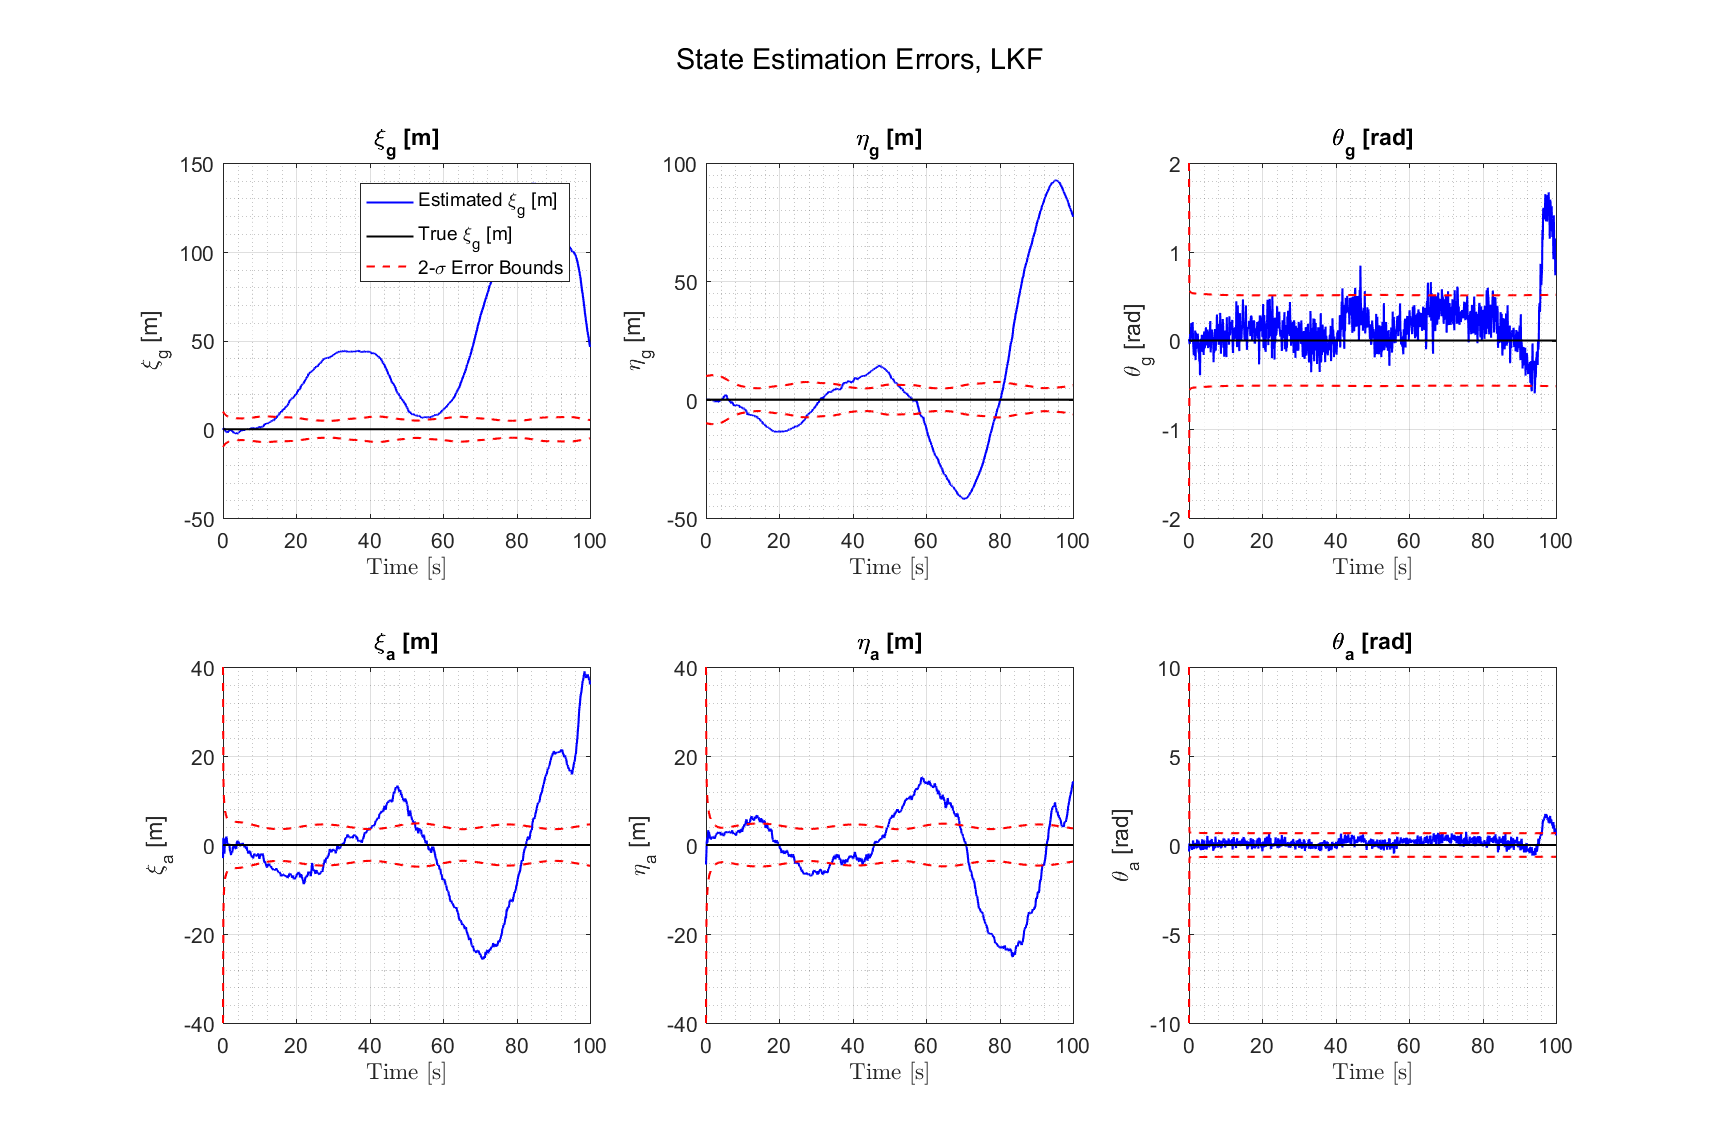
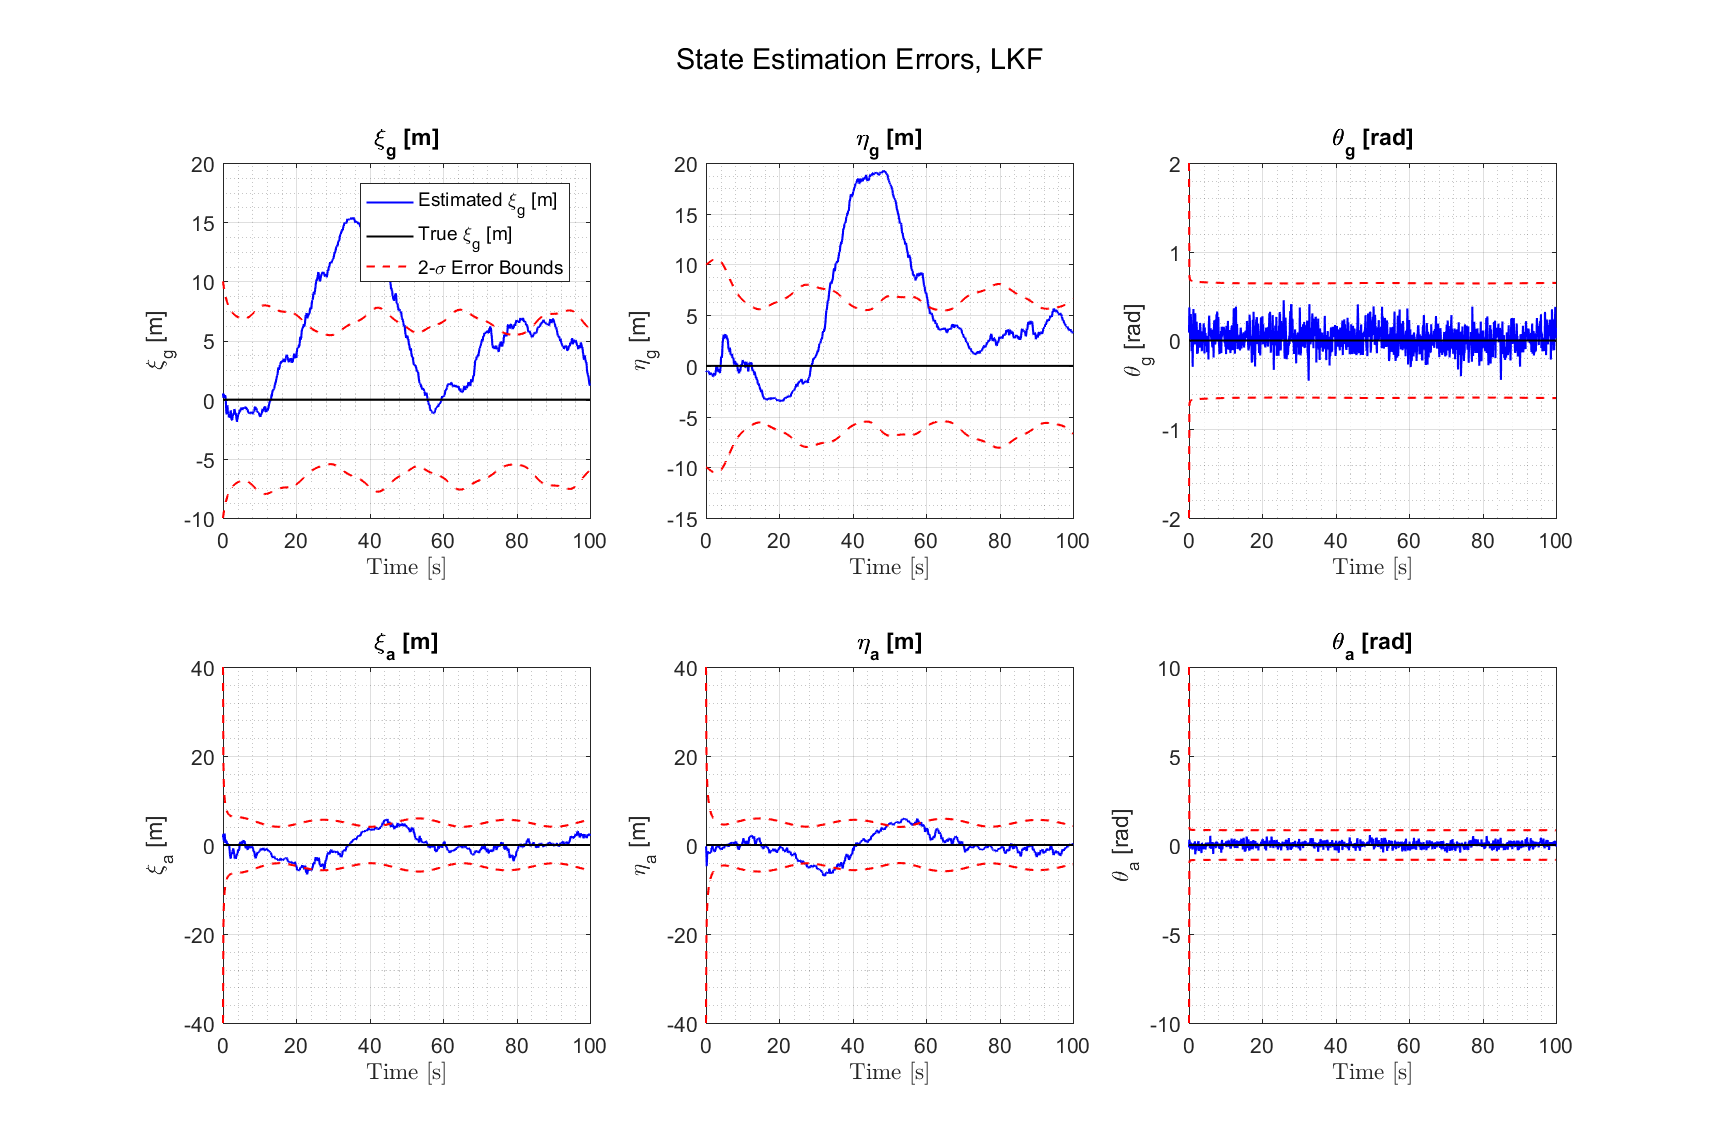
Eliminated angdiff with WrapToPi

diff --git a/progress1.m b/progress1.m
@@ -190,7 +190,7 @@ for i = 1:len-1
 end
 
 QLKF = 10000*Qtrue;
-RLKF = 3*Rtrue;
+RLKF = 10*Rtrue;
 P0_LKF = 100*P0; %Cheating?
 
 if runbool(1) && runbool(2)
@@ -200,7 +200,7 @@ NIS_LKF = zeros(num,len-1);
 for i=1:num
     % Create dy 
     dyLKF =noisymeas(:,:,i)-ynom; %Difference between measurement and nomimal meas
-    dyLKF([1 3],:) = angdiff(ynom([1 3],:),noisymeas([1 3],:,i));
+    dyLKF([1 3],:) = wrapToPi(noisymeas([1 3],:,i)-ynom([1 3],:));
     
     %Linearized KF
     [dxLKF,P,NIS_LKF(i,:),innovations] = LKF(zeros(6,1),P0_LKF,time,FkLKF,GkLKF,dukLKF,OmegakLKF,QLKF,RLKF,HkLKF,dyLKF);
@@ -208,7 +208,7 @@ for i=1:num
     
     % Compute NEES
     epsx = xMC(:,:,i)-xLKF;
-    epsx([3 6],:) = angdiff(xLKF([3 6],:),xMC([3 6],:,i));
+    epsx([3 6],:) = wrapToPi(xMC([3 6],:,i)-xLKF([3 6],:));
     for j = 1:len
         NEES_LKF(i,j) = epsx(:,j)'/P(:,:,j)*epsx(:,j);
     end
@@ -223,15 +223,13 @@ if plotbool(2)
     
     %Plot the delta_states
     dev = xMC(:,:,num)-xnom;
-    %dev([3 6],:) = wrapToPi(dev([3 6],:));
-    dev([3 6],:) = angdiff(xnom([3 6],:),xMC([3 6],:,num));
+    dev([3 6],:) = wrapToPi(xMC([3 6],:,num)-xnom([3 6],:));
     plotEstimate(dxLKF,P,time,dev,[ugvstates uavstates],'Comparing Delta States for a Trial, LKF',1);
     print('LKF_delta_est_tuning','-dpng')
     
     %Plot the errors
     err = xMC(:,:,num)-xLKF;
-    %err([3 6],:) = wrapToPi(err([3 6],:));
-    err([3 6],:) = angdiff(xLKF([3 6],:),xMC([3 6],:,num));
+    err([3 6],:) = wrapToPi(xMC([3 6],:,num)-xLKF([3 6],:));
     plotEstimate(err,P,time,zeros(n,len),[ugvstates uavstates],'State Estimation Errors, LKF',0);
     print('LKF_error_tuning','-dpng')
     
@@ -283,7 +281,7 @@ for i=1:num
     
     % Compute NEES
     epsx = xMC(:,:,i)-xEKF;
-    epsx([3 6],:) = angdiff(xEKF([3 6],:),xMC([3 6],:,i));
+    epsx([3 6],:) = wrapToPi(xMC([3 6],:,i)-xEKF([3 6],:));
     for j = 1:len
         NEES_EKF(i,j) = epsx(:,j)'/P(:,:,j)*epsx(:,j);
     end
@@ -298,7 +296,7 @@ if plotbool(3)
         
     %Plot the errors
     err = xMC(:,:,num)-xEKF;
-    err([3 6],:) = angdiff(xEKF([3 6],:),xMC([3 6],:,num));
+    err([3 6],:) = wrapToPi(xMC([3 6],:,num)-xEKF([3 6],:));
     plotEstimate(err,P,time,zeros(n,len),[ugvstates uavstates],'State Estimation Errors, EKF',0);
     print('EKF_error_tuning','-dpng')
     
